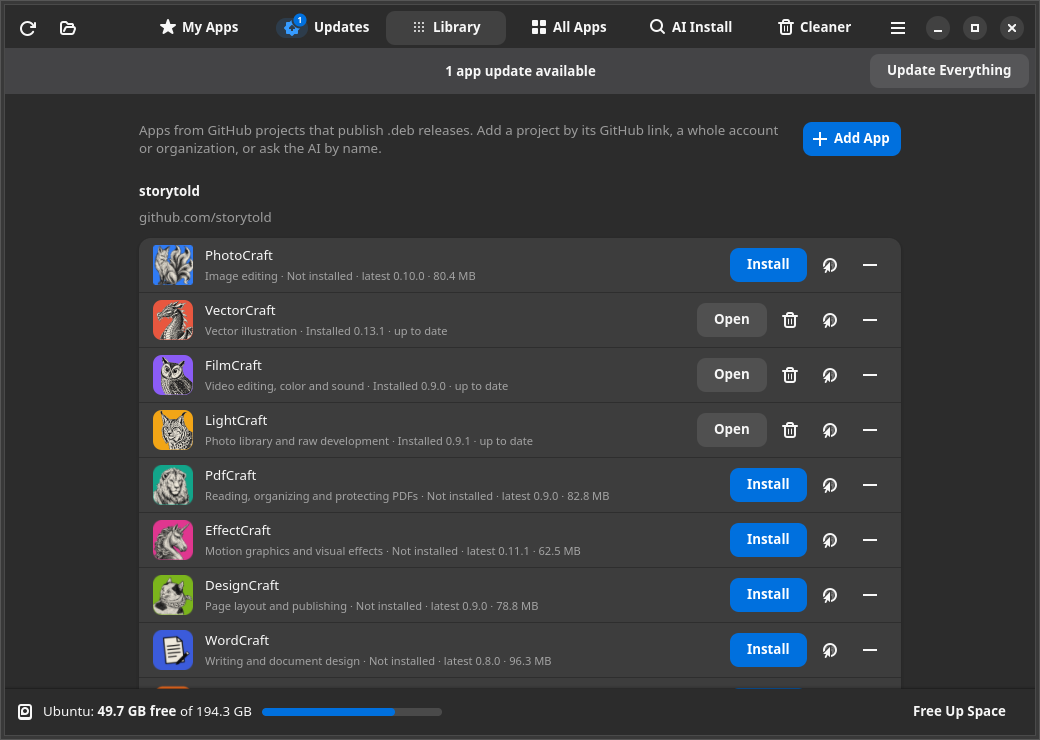
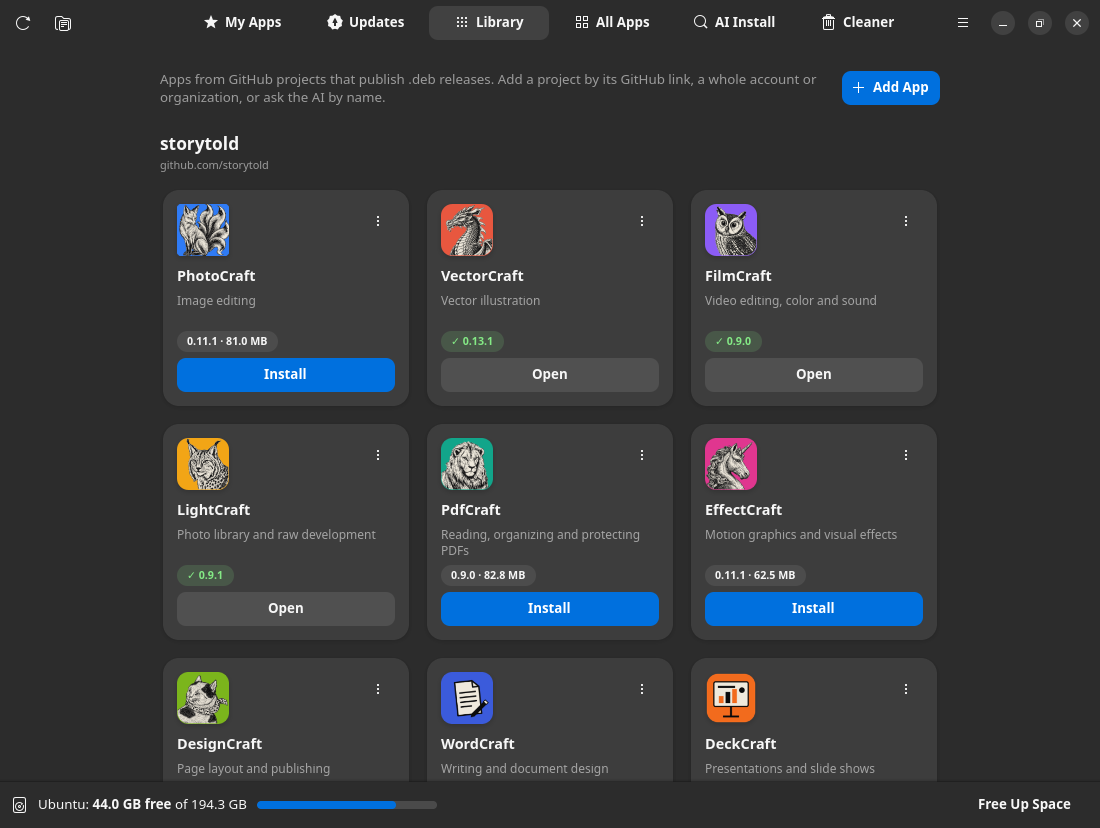
README: new card design screenshots and text (1.7.0)

diff --git a/README.md b/README.md
@@ -24,9 +24,9 @@ Flatpak and AppImage, with a single password prompt for everything.
 
 | | |
 |---|---|
-| **My Apps** | Installs and updates apps straight from their latest GitHub release, plus GNOME Shell extensions in its **Extensions** group. **Add App** (admin only) adds more: paste a repo link, or an account link to list every project that publishes a `.deb`. |
+| **My Apps** | App cards with icon, status and one button: installs and updates apps straight from their latest GitHub release, plus GNOME Shell extensions in its **Extensions** group. **Add App** (admin only) adds more: paste a repo link, or an account link to list every project that publishes a `.deb`. |
 | **Updates** | Checks GitHub, Deb, Snap, Flatpak and system packages, and lists every pending update with old → new version and release notes. Update one app, or everything at once. The tab shows how many updates are waiting. |
-| **Library** | Any GitHub project with `.deb` releases, grouped by owner. Starts with 13 creative apps from [storytold](https://github.com/storytold) (PhotoCraft, VectorCraft, FilmCraft, …). Add more by link, by account, or by name with AI. |
+| **Library** | Any GitHub project with `.deb` releases, as cards grouped by owner. Starts with 13 creative apps from [storytold](https://github.com/storytold) (PhotoCraft, VectorCraft, FilmCraft, …). Add more by link, by account, or by name with AI. |
 | **All Apps** | Every installed desktop app with its channel (Deb, Snap, Flatpak, AppImage). Update, open, star or uninstall each one. **Recently Uninstalled** brings back anything removed in the last 60 days, by any tool. |
 | **AI Install** | Ask Gemini how to install an app. Every answer is checked locally (apt cache, Snap Store, Flatpak remote, GitHub) before you confirm. Commands written by the AI are never run. |
 | **Cleaner** | Finds what removed apps left behind: folders in your home (moved to the Trash, not deleted), config files, unused dependencies, old snap revisions, unused Flatpak runtimes and cached `.deb` files. |
@@ -42,7 +42,9 @@ And more:
 - ⭐ **Favorites.** Star apps, then install them all on a new machine with one click.
 - 🧭 **Ubuntu staged updates.** Phased (staged-rollout) updates are listed separately and can be
   installed early if you choose.
-- 🎨 **Native look.** GTK 4 and libadwaita, following your system's light/dark style and accent color.
+- 🎨 **Modern, native look.** App cards with status chips (installed version, update available,
+  download size) and a ⋮ menu for Release page, Uninstall and Remove. GTK 4 and libadwaita,
+  following your system's light/dark style and accent color.
 
 <table>
   <tr>
@@ -69,7 +71,7 @@ Or install by hand: download `app-hub_<version>_all.deb` from the
 
 Requires Ubuntu 24.04 or newer, or Debian 13 (Python 3.10+, GTK 4.14+, libadwaita 1.5+).
 Snap and Flatpak support turns on when `snapd` or `flatpak` is installed.
-From then on, App Hub updates itself from its own row at the top of My Apps.
+From then on, App Hub updates itself from its own banner at the top of My Apps.
 
 ### Apps in My Apps
 
